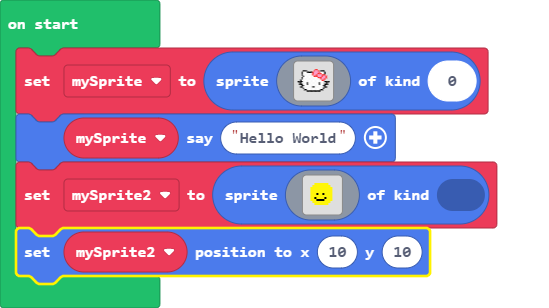
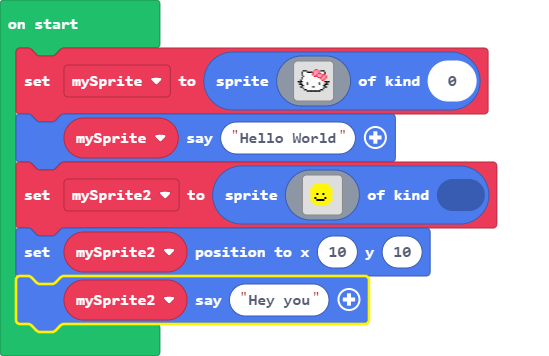
Added dialogue to mySprite2

diff --git a/main.ts b/main.ts
@@ -38,3 +38,4 @@ let mySprite2 = sprites.create(img`
     . . . . . . . . . . . . . . . . 
     `, 0)
 mySprite2.setPosition(10, 10)
+mySprite2.say("Hey you")
